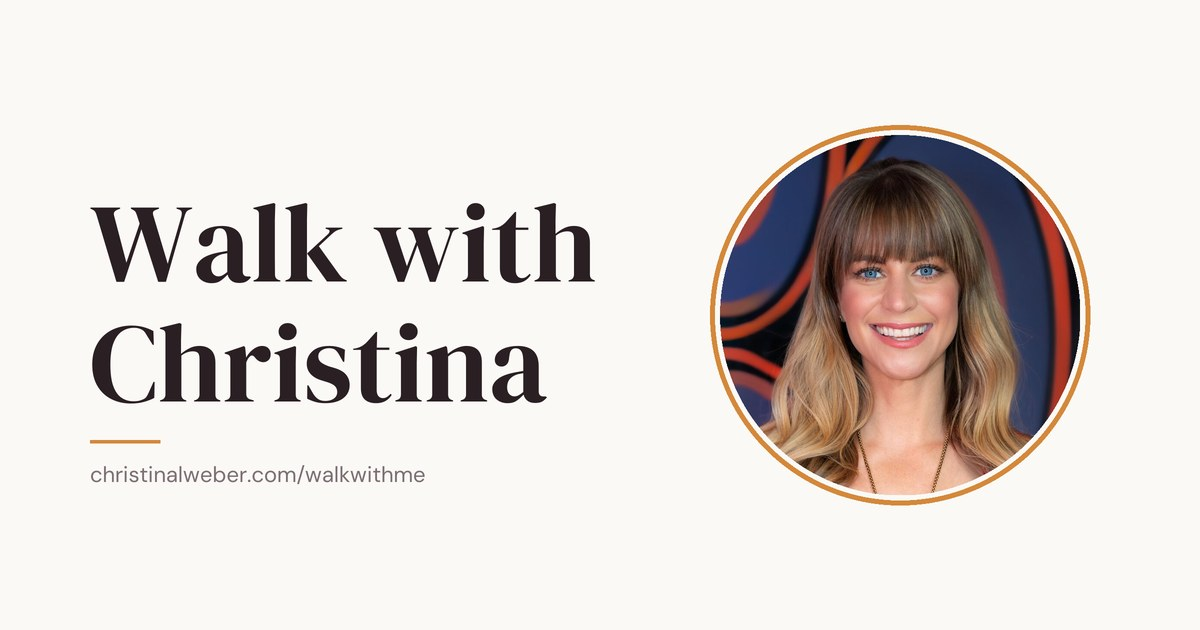
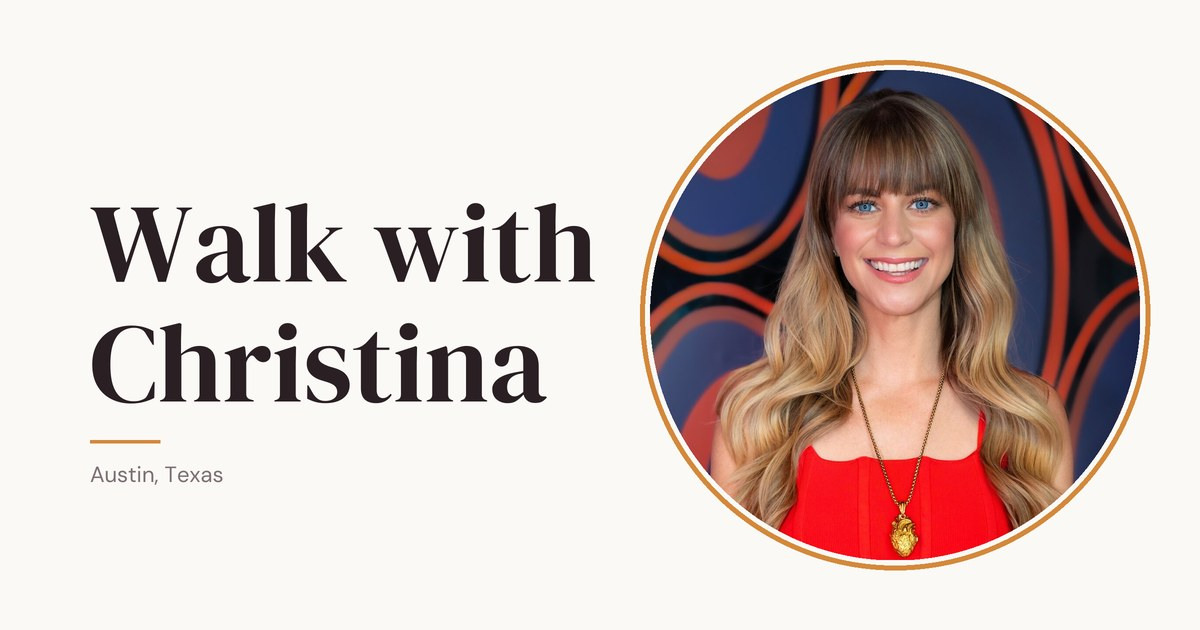
Walk With Me thumbnail: larger photo circle with red top and heart pendant, Austin, Texas subline

Changed region(s): [[0.5242, 0.0905, 0.9867, 0.9048], [0.0617, 0.7238, 0.3392, 0.7841]]

diff --git a/walkwithme/index.html b/walkwithme/index.html
@@ -20,7 +20,7 @@
   <meta property="og:url" content="https://christinalweber.com/walkwithme/">
   <meta property="og:title" content="Walk with Christina">
   <meta property="og:description" content="Book a time to go on a walk with Christina.">
-  <meta property="og:image" content="https://christinalweber.com/walkwithme/og-image.jpg">
+  <meta property="og:image" content="https://christinalweber.com/walkwithme/og-image.jpg?v=2">
   <meta property="og:image:width" content="1200">
   <meta property="og:image:height" content="630">
   <meta property="og:image:alt" content="Walk with Christina">
@@ -28,7 +28,7 @@
   <meta name="twitter:card" content="summary_large_image">
   <meta name="twitter:title" content="Walk with Christina">
   <meta name="twitter:description" content="Book a time to go on a walk with Christina.">
-  <meta name="twitter:image" content="https://christinalweber.com/walkwithme/og-image.jpg">
+  <meta name="twitter:image" content="https://christinalweber.com/walkwithme/og-image.jpg?v=2">
 
   <link rel="icon" type="image/x-icon" href="/images/favicon.ico">
   <link rel="icon" type="image/png" sizes="32x32" href="/images/favicon-32x32.png">

diff --git a/walk-with-me/index.html b/walk-with-me/index.html
@@ -10,11 +10,11 @@
   <meta property="og:url" content="https://christinalweber.com/walkwithme/">
   <meta property="og:title" content="Walk with Christina">
   <meta property="og:description" content="Book a time to go on a walk with Christina.">
-  <meta property="og:image" content="https://christinalweber.com/walkwithme/og-image.jpg">
+  <meta property="og:image" content="https://christinalweber.com/walkwithme/og-image.jpg?v=2">
   <meta property="og:image:width" content="1200">
   <meta property="og:image:height" content="630">
   <meta name="twitter:card" content="summary_large_image">
-  <meta name="twitter:image" content="https://christinalweber.com/walkwithme/og-image.jpg">
+  <meta name="twitter:image" content="https://christinalweber.com/walkwithme/og-image.jpg?v=2">
   <meta http-equiv="refresh" content="0; url=/walkwithme/">
   <script>window.location.replace("/walkwithme/");</script>
 </head>
